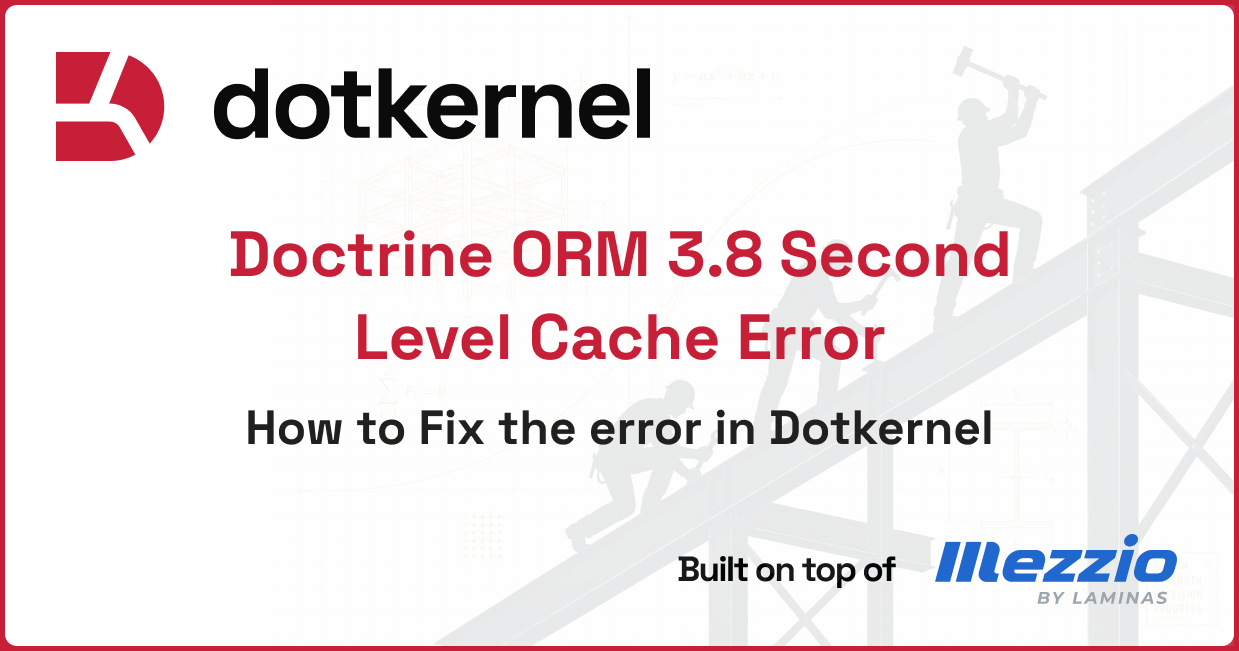
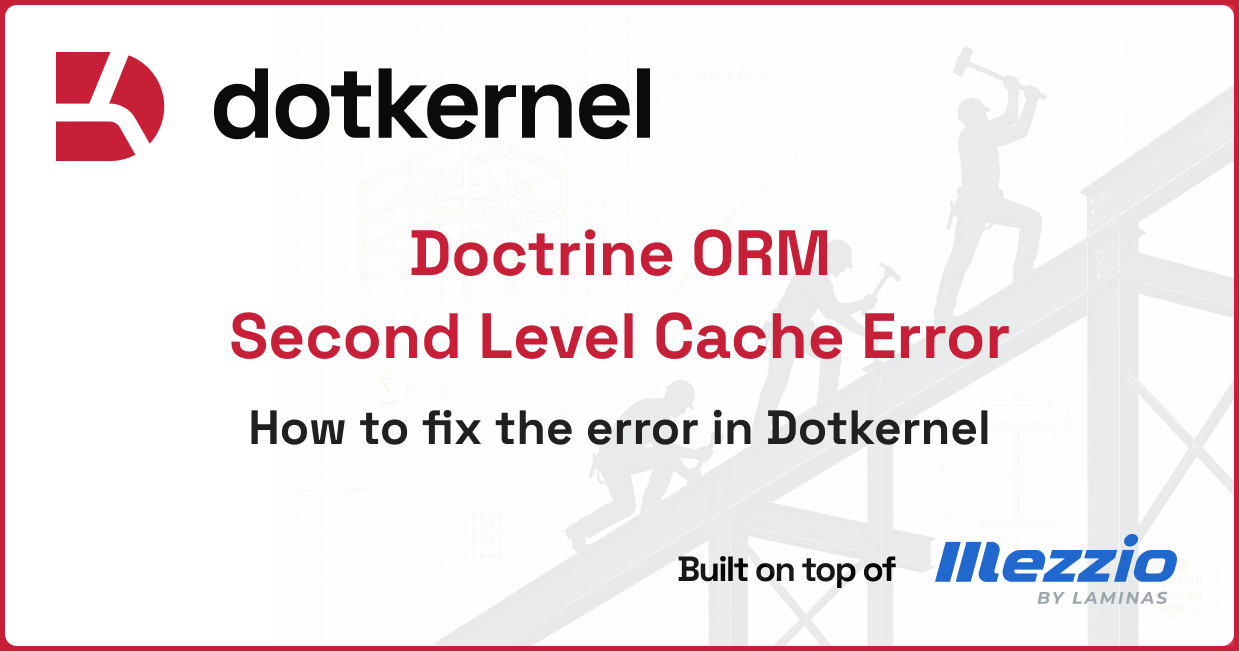
small updates

Changed region(s): [[0.184, 0.3379, 0.8281, 0.4301], [0.184, 0.4608, 0.8281, 0.553], [0.184, 0.6144, 0.7974, 0.7066]]

diff --git a/public/md-articles/how-to/doctrine-orm-second-level-cache-dotkernel.md b/public/md-articles/how-to/doctrine-orm-second-level-cache-dotkernel.md
@@ -1,5 +1,5 @@
 ---
-title: "How to Fix the Doctrine ORM 3.8 Second Level Cache Error in Dotkernel"
+title: "How to Fix the Doctrine ORM Second Level Cache Error in Dotkernel"
 description: "Doctrine ORM 3.8 requires an extra package before the second level cache can be enabled. Why Dotkernel API and Admin fail with a ServiceNotCreatedException after updating, and how to disable the cache or opt back in."
 author: "Florin Bidirean"
 date_published: "2026-11-16"
@@ -12,7 +12,7 @@ language: "en"
 
 ## TL;DR
 
-Doctrine ORM 3.8.0 refuses to enable the second level cache unless `doctrine/orm-plugin-second-level-cache` is installed.
+In the 3.8.0 release of Doctrine ORM, the second level cache requires the installation of the extra package `doctrine/orm-plugin-second-level-cache`.
 Dotkernel API and Admin enable the second level cache by default, and ORM 3.8 is pulled in automatically as a transitive dependency, so a fresh install or a `composer update` fails as soon as the entity manager is created.
 Neither application actually caches anything through the second level cache, so the fix is to disable it with a new `$enableSecondLevelCache` flag in `config/autoload/local.php`.
 To keep using it, install the plugin and set the flag to `true`.
